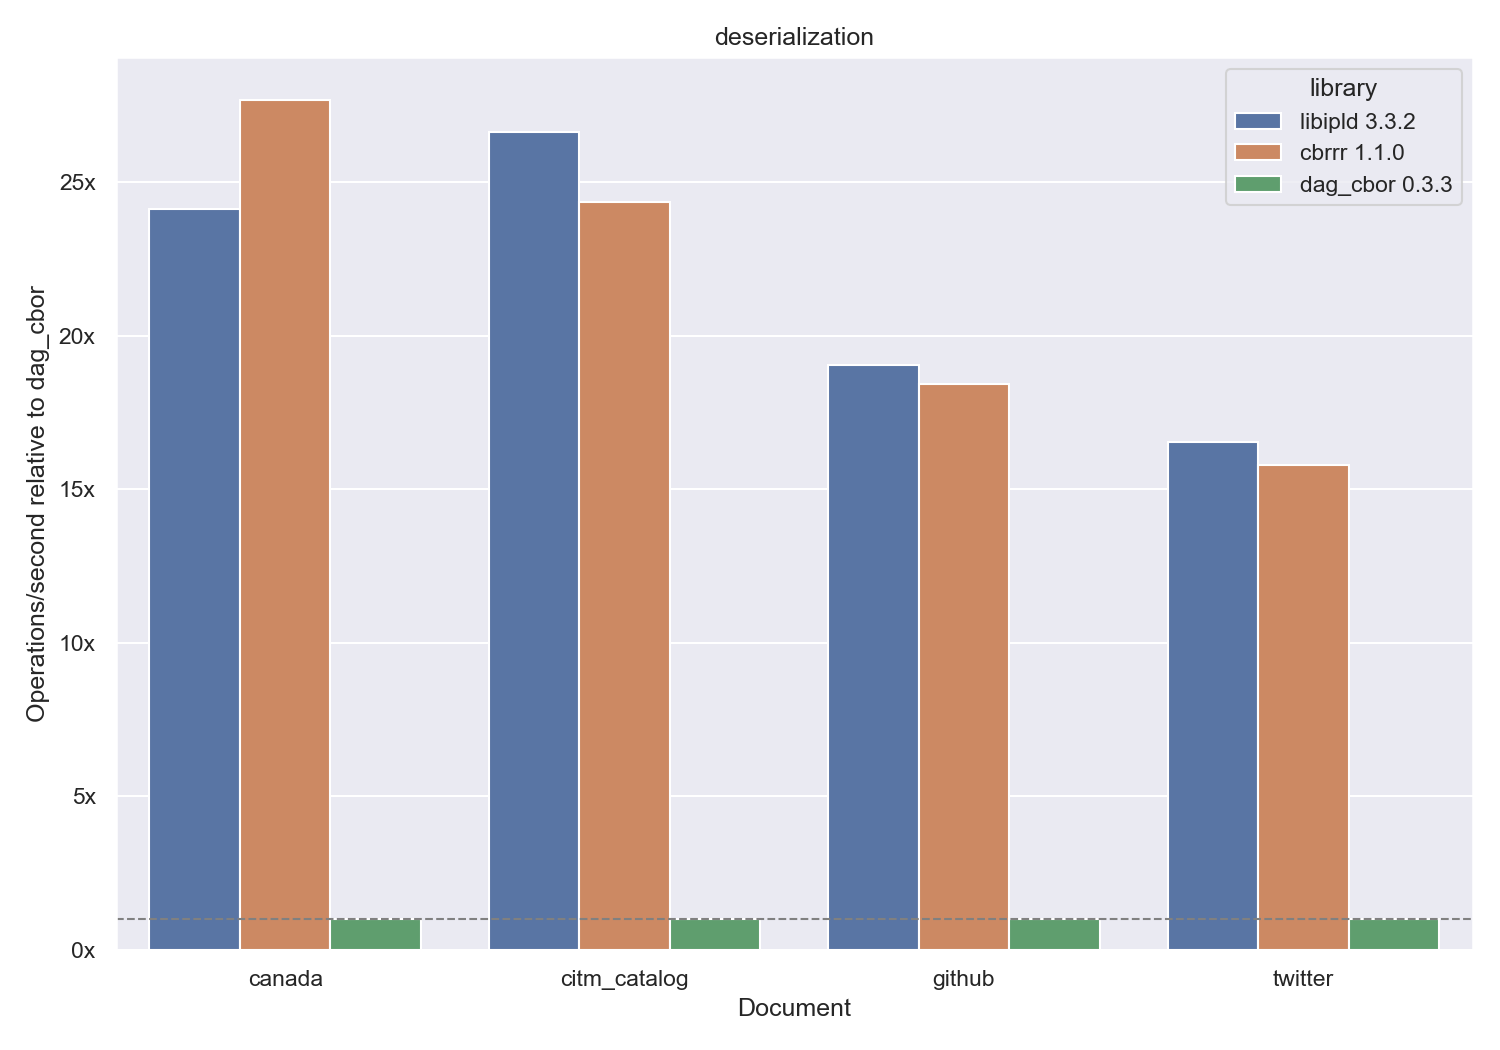
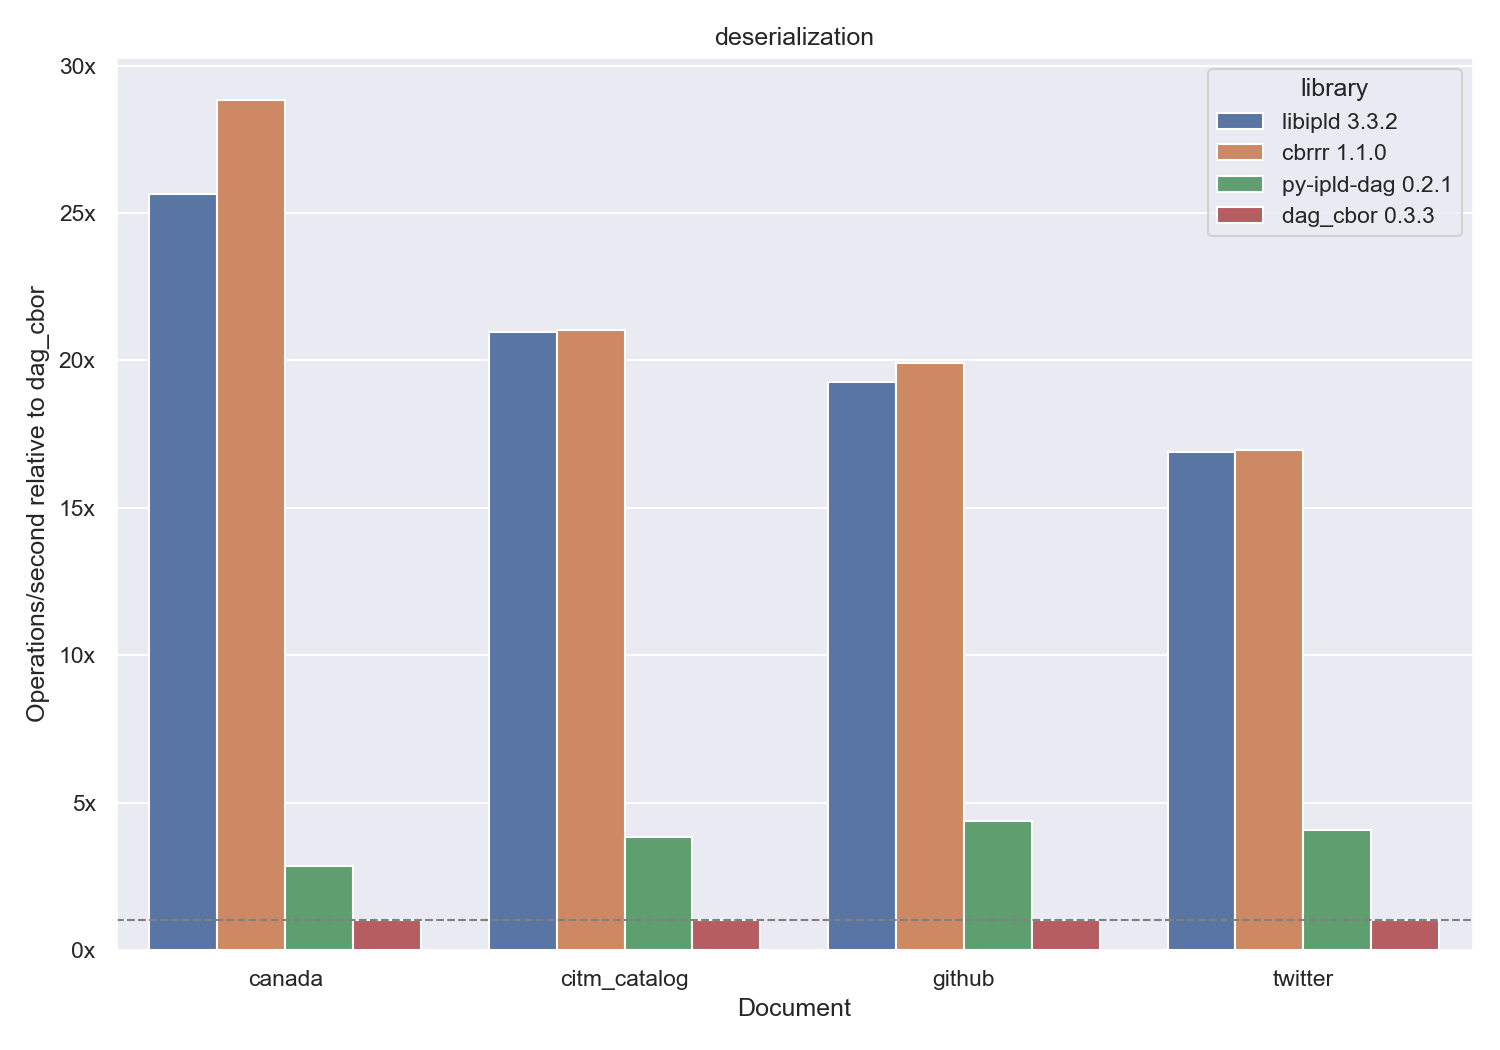
Add py-ipld-dag

diff --git a/benchmark/conftest.py b/benchmark/conftest.py
@@ -16,6 +16,11 @@ try:
 except ImportError:
     dag_cbor = None
 
+try:
+    from dag.codecs import dag_cbor as py_ipld_dag_cbor
+except ImportError:
+    py_ipld_dag_cbor = None
+
 
 FIXTURES = ['canada', 'citm_catalog', 'github', 'twitter']
 DATA_DIR = Path(__file__).parent.parent / 'data'
@@ -31,6 +36,10 @@ if dag_cbor is not None:
     DECODERS['dag_cbor'] = dag_cbor.decode
     ENCODERS['dag_cbor'] = dag_cbor.encode
     VERSIONS['dag_cbor'] = version('dag-cbor')
+if py_ipld_dag_cbor is not None:
+    DECODERS['py-ipld-dag'] = py_ipld_dag_cbor.decode
+    ENCODERS['py-ipld-dag'] = py_ipld_dag_cbor.encode
+    VERSIONS['py-ipld-dag'] = version('py-ipld-dag')
 
 
 @pytest.fixture(scope='session', params=FIXTURES)

diff --git a/benchmark/chart.py b/benchmark/chart.py
@@ -15,7 +15,7 @@ import seaborn as sns
 from matplotlib.ticker import FuncFormatter
 
 BASELINE = 'dag_cbor'
-HUE_ORDER = ['libipld', 'cbrrr', 'dag_cbor']
+HUE_ORDER = ['libipld', 'cbrrr', 'py-ipld-dag', 'dag_cbor']
 
 
 def load(path):

diff --git a/benchmark/README.md b/benchmark/README.md
@@ -5,6 +5,7 @@ DAG-CBOR encode/decode benchmark across Python implementations.
 Compared:
 - [`libipld`](https://github.com/MarshalX/python-libipld) (Rust)
 - [`cbrrr`](https://github.com/DavidBuchanan314/dag-cbrrr) (C)
+- [`py-ipld-dag`](https://github.com/ipld/py-ipld-dag) (Python wrapper over [`cbor2`](https://github.com/agronholm/cbor2) with `canonical=True`; cbor2 itself is Rust)
 - [`dag_cbor`](https://github.com/hashberg-io/dag-cbor) (pure Python, used as the 1× baseline)
 
 Fixtures: `canada.json`, `citm_catalog.json`, `github.json`, `twitter.json` (loaded from `../data/`, parsed once, then encoded to DAG-CBOR via `libipld` for the decode benchmarks).